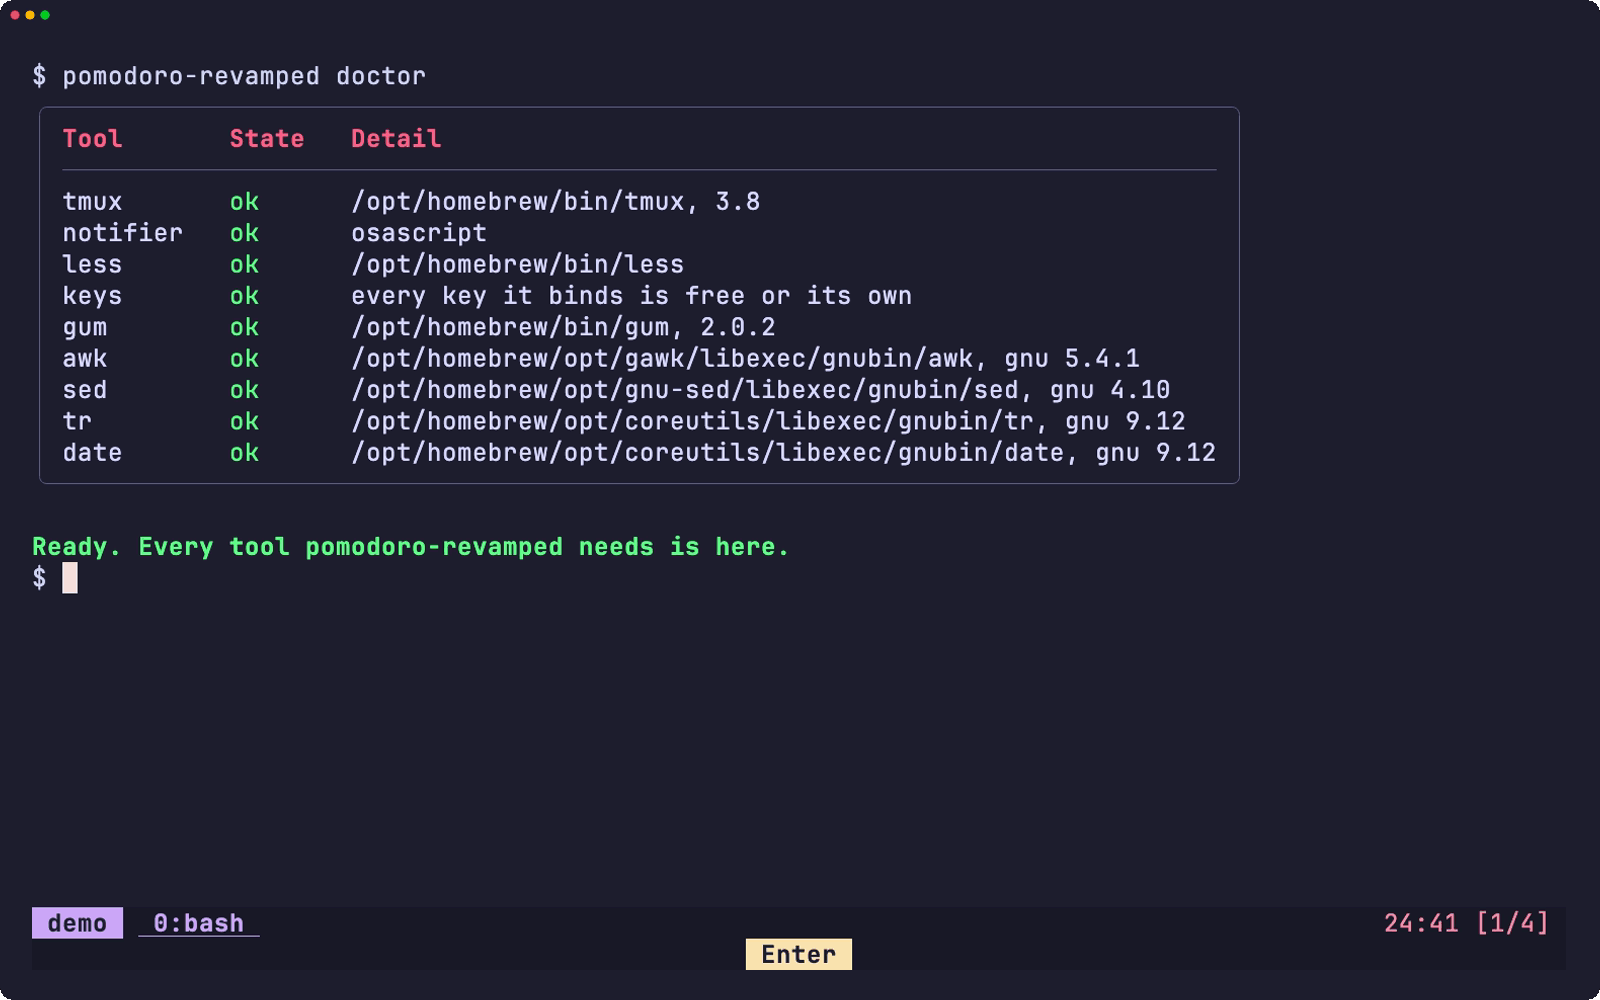
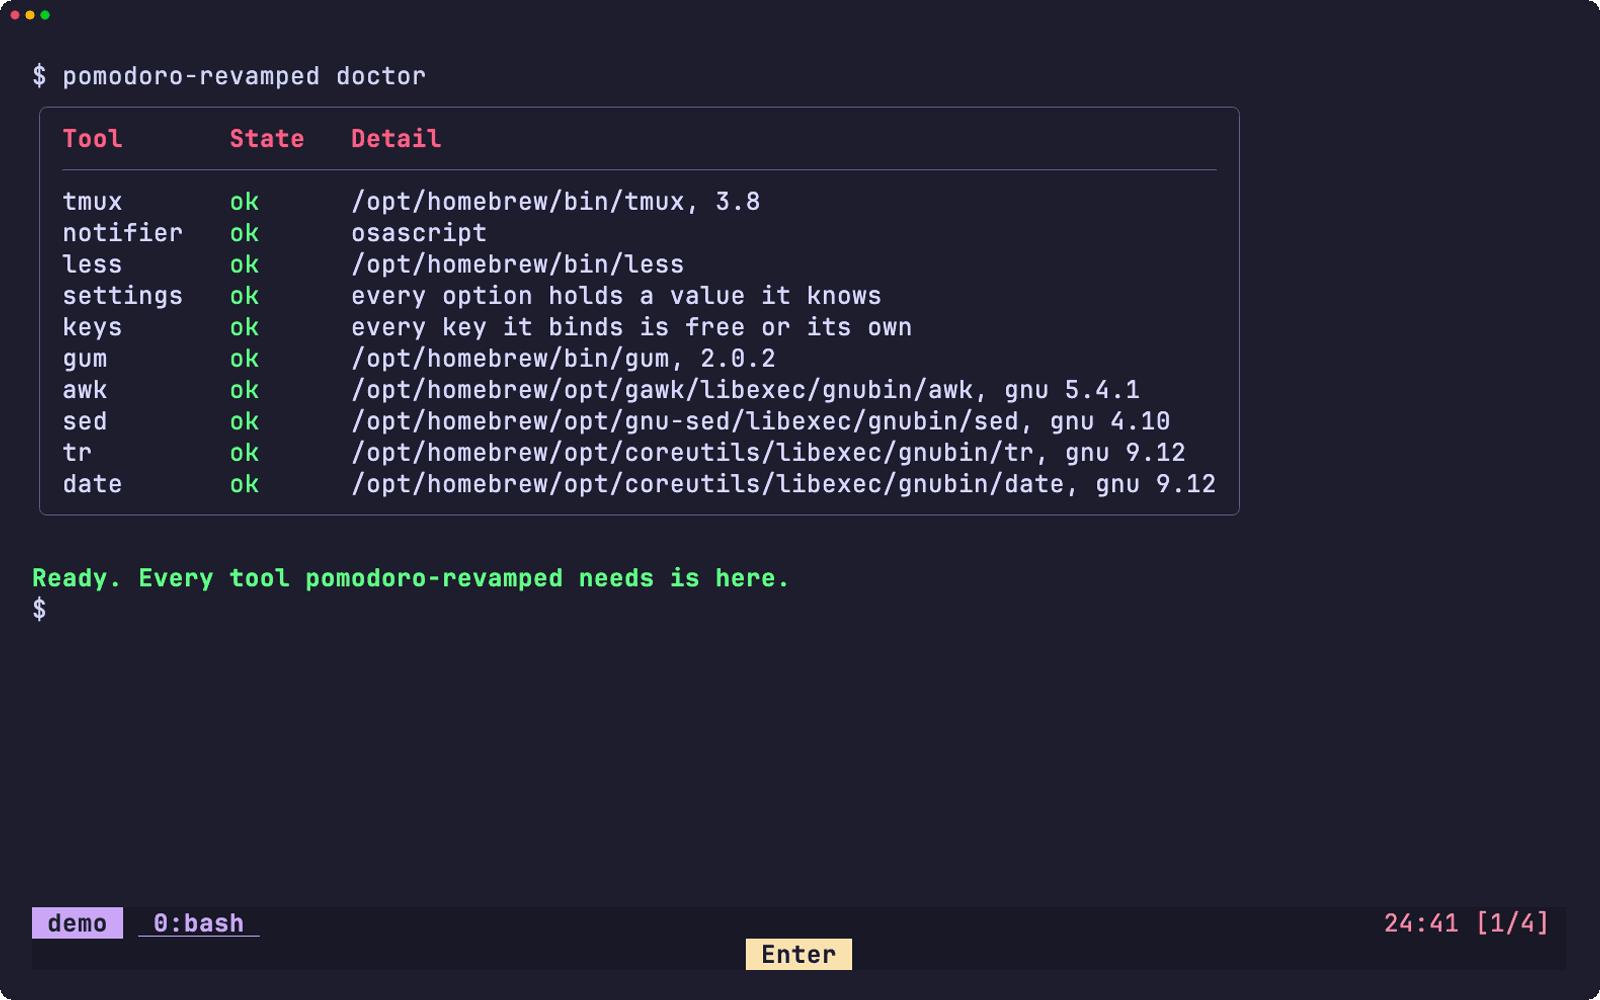
feat: name unknown setting values in doctor
doctor prints a settings row. It reads the value in force for each
switch, number and choice, whether a tmux option, the environment
or the command line gave it, and names any value the plugin does
not know, such as yes where it reads on. Until now such a value was
ignored in silence, and a status line has no place to say so.

The values each setting accepts are listed beside the settings in
lib/state.sh, and one helper in lib/doctor.sh checks them.

The screens are recorded again: doctor shows the settings row, and
its table folds its last column to fit the terminal.

diff --git a/README.ja.md b/README.ja.md
@@ -144,7 +144,7 @@ run-shell ~/.tmux/plugins/tmux-pomodoro-revamped/pomodoro-revamped.tmux
 | `@pomodoro_revamped_menu_key` | 空 | 操作メニューを開くプレフィックスキーです |
 | `@pomodoro_revamped_help_key` | 空 | ヘルプのポップアップを開くプレフィックスキーです |
 
-どのオプションも、ダッシュ区切りのコマンドオプション（例 `--work 50`）と環境変数（例 `POMODORO_REVAMPED_WORK`）で指定できます。優先順位はコマンドライン、環境変数、tmux オプションの順です。空の tmux オプションは既定値を意味します。`apply` に渡したものは、すべての割り当てとステータスの呼び出しに引き継がれます。
+どのオプションも、ダッシュ区切りのコマンドオプション（例 `--work 50`）と環境変数（例 `POMODORO_REVAMPED_WORK`）で指定できます。優先順位はコマンドライン、環境変数、tmux オプションの順です。空の tmux オプションは既定値を意味します。`doctor` は、プラグインが認識できない値を持つ設定の名前を表示します。`apply` に渡したものは、すべての割り当てとステータスの呼び出しに引き継がれます。
 
 ### 内部状態
 

diff --git a/README.md b/README.md
@@ -144,7 +144,7 @@ Set any option in `~/.tmux.conf` before the plugin loads.
 | `@pomodoro_revamped_menu_key` | empty | Prefix key that opens the control menu |
 | `@pomodoro_revamped_help_key` | empty | Prefix key that opens the help popup |
 
-Every option is also a command option with dashes, such as `--work 50`, and an environment variable, such as `POMODORO_REVAMPED_WORK`; the command line wins over the environment, and the environment over the tmux option. An empty tmux option means its default. One given to `apply` rides on every binding and on the status call.
+Every option is also a command option with dashes, such as `--work 50`, and an environment variable, such as `POMODORO_REVAMPED_WORK`; the command line wins over the environment, and the environment over the tmux option. An empty tmux option means its default. `doctor` names any setting that holds a value the plugin does not know. One given to `apply` rides on every binding and on the status call.
 
 ### Internal state
 

diff --git a/README.zh-HK.md b/README.zh-HK.md
@@ -144,7 +144,7 @@ run-shell ~/.tmux/plugins/tmux-pomodoro-revamped/pomodoro-revamped.tmux
 | `@pomodoro_revamped_menu_key` | 空 | 開啟控制選單的前綴鍵 |
 | `@pomodoro_revamped_help_key` | 空 | 開啟說明彈出視窗的前綴鍵 |
 
-每個選項亦可用帶連字號的命令選項（例如 `--work 50`）和環境變數（例如 `POMODORO_REVAMPED_WORK`）設定；命令列優先於環境變數，環境變數優先於 tmux 選項。空的 tmux 選項表示使用預設值。傳給 `apply` 的選項會隨每個綁定和狀態呼叫一同生效。
+每個選項亦可用帶連字號的命令選項（例如 `--work 50`）和環境變數（例如 `POMODORO_REVAMPED_WORK`）設定；命令列優先於環境變數，環境變數優先於 tmux 選項。空的 tmux 選項表示使用預設值。`doctor` 會指出數值無法識別的設定。傳給 `apply` 的選項會隨每個綁定和狀態呼叫一同生效。
 
 ### 內部狀態
 

diff --git a/README.zh-Hans.md b/README.zh-Hans.md
@@ -144,7 +144,7 @@ run-shell ~/.tmux/plugins/tmux-pomodoro-revamped/pomodoro-revamped.tmux
 | `@pomodoro_revamped_menu_key` | 空 | 打开控制菜单的前缀键 |
 | `@pomodoro_revamped_help_key` | 空 | 打开帮助弹窗的前缀键 |
 
-每个选项也可以用带连字符的命令选项（例如 `--work 50`）和环境变量（例如 `POMODORO_REVAMPED_WORK`）设置；命令行优先于环境变量，环境变量优先于 tmux 选项。空的 tmux 选项表示使用默认值。传给 `apply` 的选项会随每个绑定和状态调用一起生效。
+每个选项也可以用带连字符的命令选项（例如 `--work 50`）和环境变量（例如 `POMODORO_REVAMPED_WORK`）设置；命令行优先于环境变量，环境变量优先于 tmux 选项。空的 tmux 选项表示使用默认值。`doctor` 会指出值无法识别的设置。传给 `apply` 的选项会随每个绑定和状态调用一起生效。
 
 ### 内部状态
 
